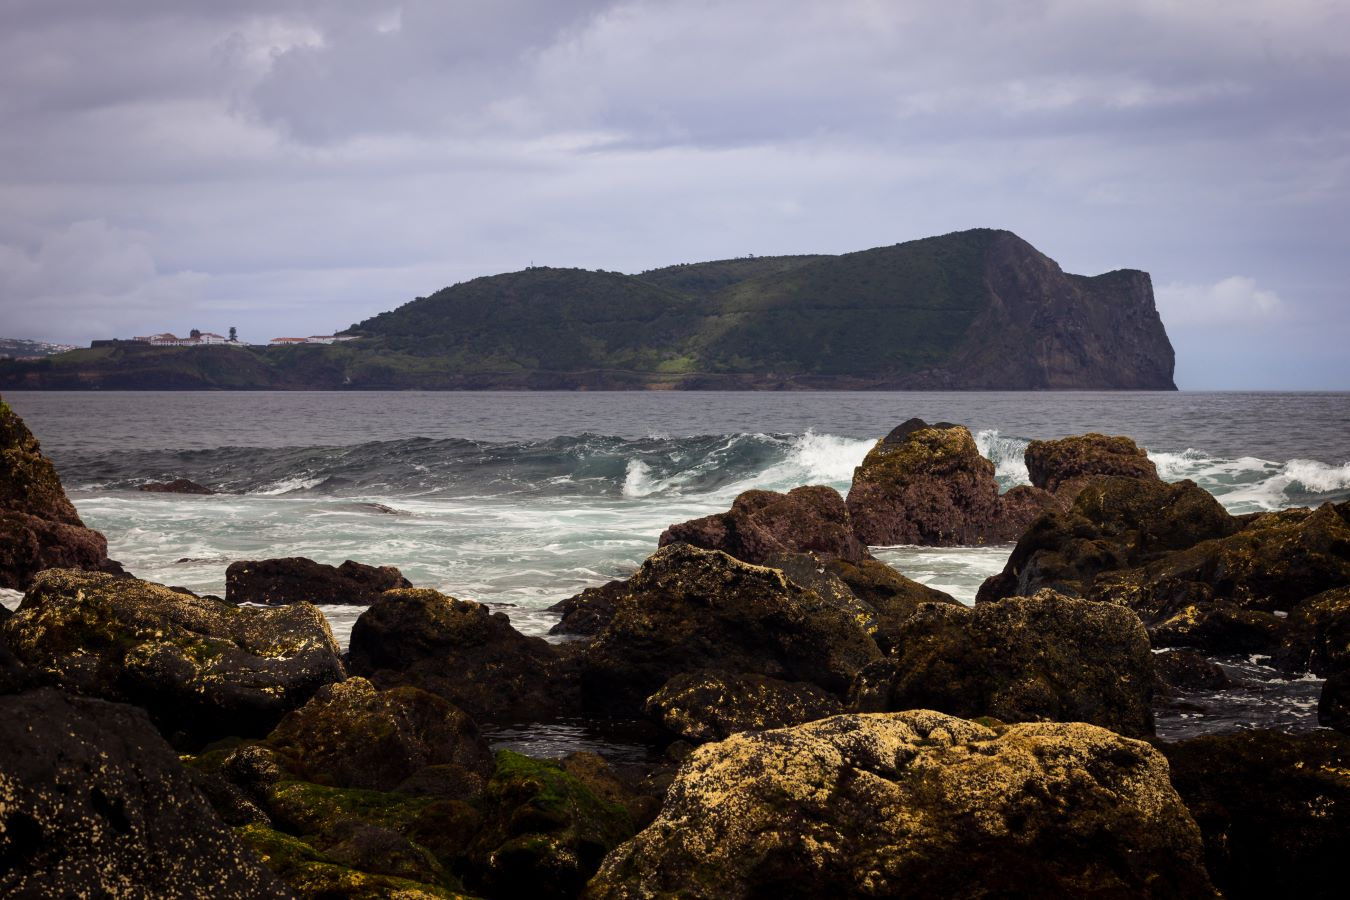
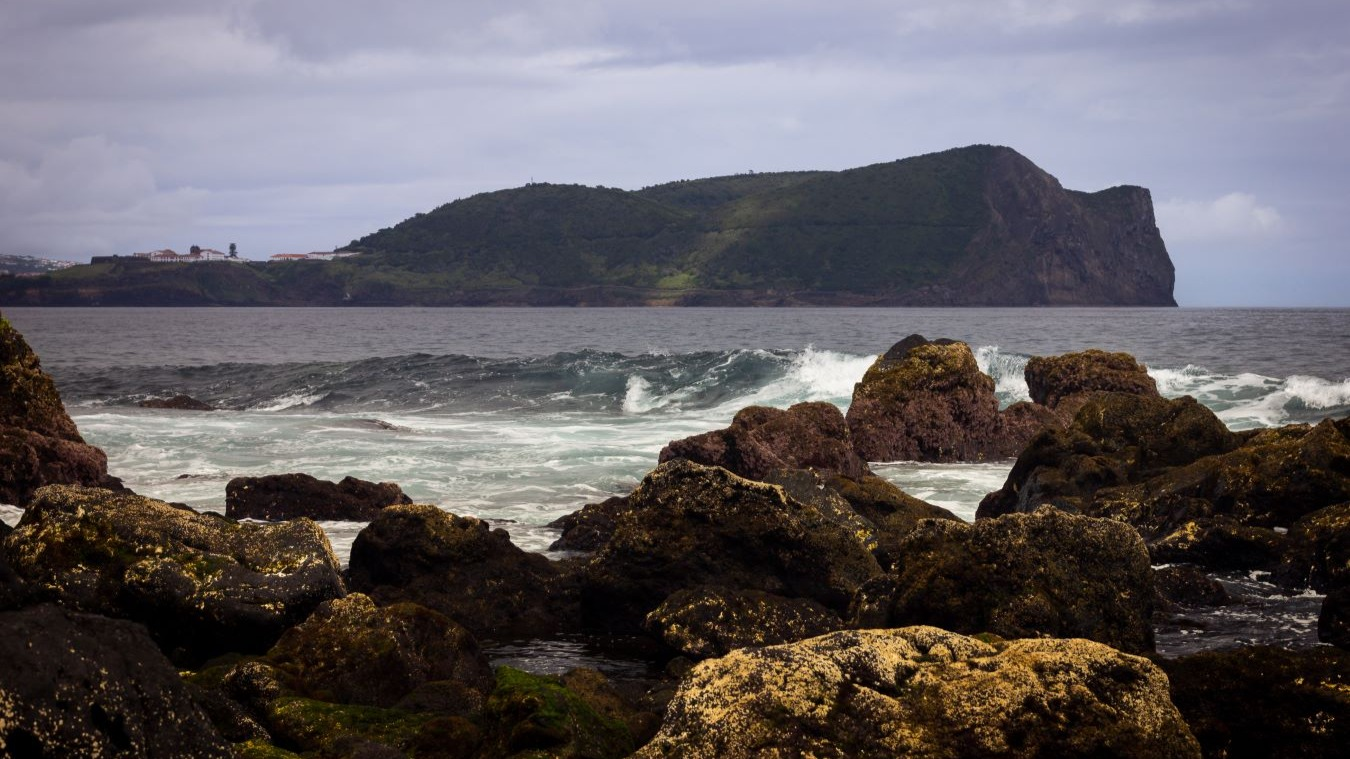
changed bg-images to fixed aspect ratio

diff --git a/src/routes/lib/components/Navbar.svelte b/src/routes/lib/components/Navbar.svelte
@@ -2,7 +2,7 @@
 import Time from "./Time.svelte";
 import Weather from "./Weather.svelte";
 import ThemeSwitch from "./ThemeSwitch.svelte";
-    import { text } from "@sveltejs/kit";
+import { text } from "@sveltejs/kit";
 import {
     onMount
 } from 'svelte';
@@ -88,8 +88,8 @@ onMount(() => {
     padding-top: 2vh;
     padding-bottom: 2vh;
 
-    backdrop-filter: blur(2px);
-    background: radial-gradient(circle, rgba(47, 79, 79, 0) 0%, rgba(88, 150, 150, 0.5)60%, rgba(47, 79, 79, 1) 100%);
+    
+    background: radial-gradient(circle, rgba(0, 0, 0, 0) 20%, rgba(0, 0, 0, 0.4) 80%, rgba(0, 0, 0, 0.7) 100%);
 }
 
 .popup-box {
@@ -131,8 +131,8 @@ nav {
     border: 2px double antiquewhite;
     border-radius: 50vh;
 
-    backdrop-filter: blur(30px);
-    background: rgba(47, 79, 79, 0.4);
+    backdrop-filter: blur(10px);
+    background: rgba(0,0,0, 0.1);
 
 }
 
@@ -150,6 +150,7 @@ li {
     background-repeat: no-repeat;
     background-position: 50% 100%;
     background-size: 0% 0%;
+    
     transition: all 100ms;
 }
 
@@ -158,6 +159,7 @@ li:hover {
     text-shadow: none;
     background-size: 100% 100%;
     translate: 1px 1px;
+    backdrop-filter: blur(10px);
 
 }
 
